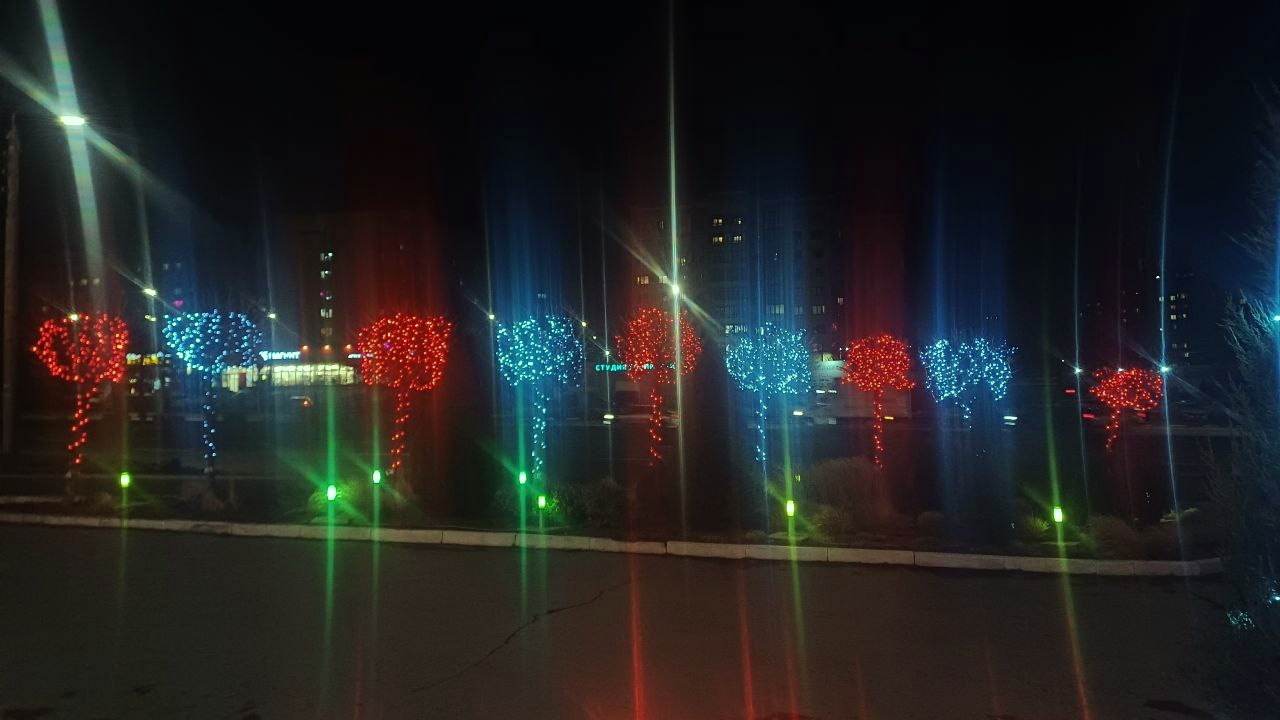
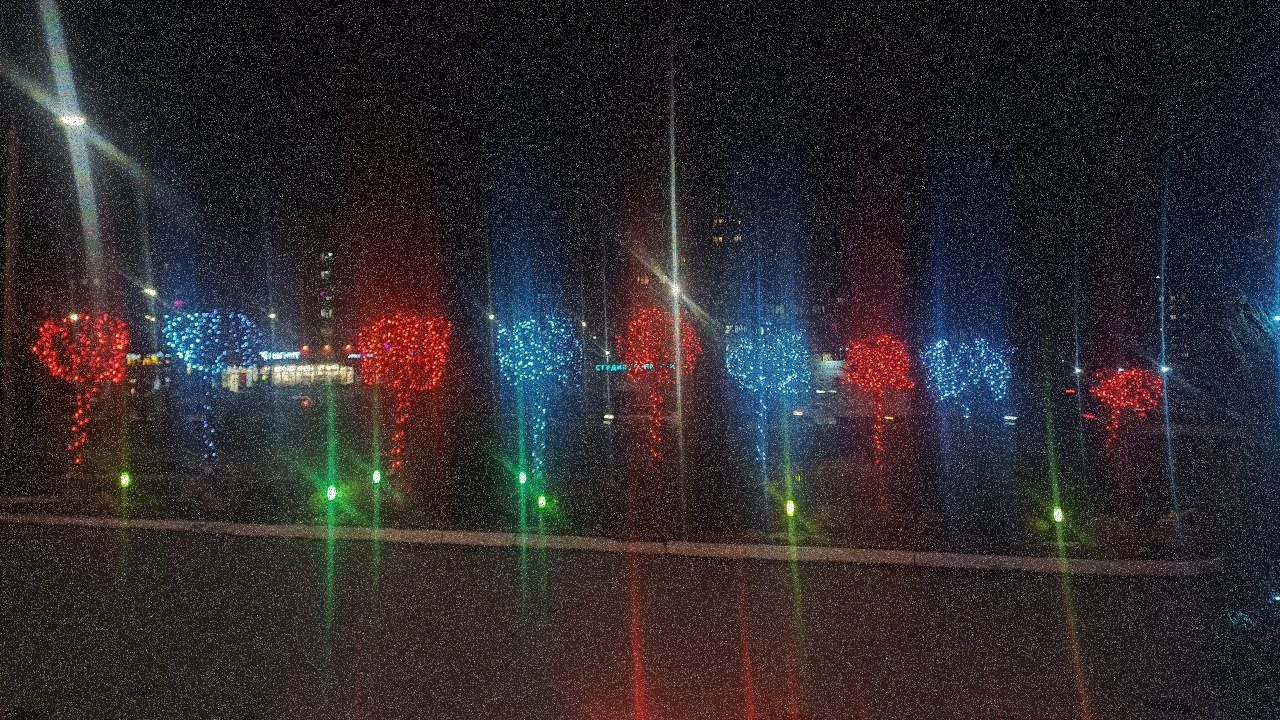
The method 'meanFrames' was added

Changed region(s): [[0.0, 0.0, 1.0, 1.0]]

diff --git a/src/DIP.py b/src/DIP.py
@@ -249,12 +249,21 @@ def grayWorld(img):
     meanG = np.mean(tmp[:, :, 1])
     meanB = np.mean(tmp[:, :, 0])
 
-    avgVal = (meanR + meanG + meanB) / 3
-    tmp[:, :, 2] *= avgVal / (meanR + 1e-12)
-    tmp[:, :, 1] *= avgVal / (meanG + 1e-12)
-    tmp[:, :, 0] *= avgVal / (meanB + 1e-12)
+    meanVal = (meanR + meanG + meanB) / 3
+    tmp[:, :, 2] *= meanVal / (meanR + 1e-12)
+    tmp[:, :, 1] *= meanVal / (meanG + 1e-12)
+    tmp[:, :, 0] *= meanVal / (meanB + 1e-12)
 
     return np.clip(tmp, 0, 255).astype('uint8')
+
+def meanFrames(imgLst):
+    tmp = [x.astype('float64') for x in imgLst]
+    S = np.empty(shape=imgLst[0].shape)
+    for x in tmp:
+        S += x
+    res = S / len(imgLst)
+    return np.clip(res, 0, 255).astype('uint8')
+
 
 def LaplaceFilterSingleChannelImages(img, kernelSize: int = 3, mode: str = 'edge', isDiagonals: bool = False):
     res = np.empty(shape=img.shape, dtype=img.dtype)

diff --git a/src/program.py b/src/program.py
@@ -5,7 +5,15 @@ import DIP
 
 def main() -> None:
     img = cv2.imread('imgs/income.jpg')
-    img = DIP.grayWorld(img)
+    n: int = 5
+    imgLst = []
+    while n > 0:
+        tmp = DIP.addSaltAndPepperNoise(img, 0.05, 0.05)
+        cv2.imwrite(f"imgs/{n}.jpg", tmp)
+        imgLst.append(tmp)
+        n -= 1
+    
+    img = DIP.meanFrames(imgLst)
     cv2.imwrite('imgs/outcome.jpg', img)
     print('Hello, world!')
 
